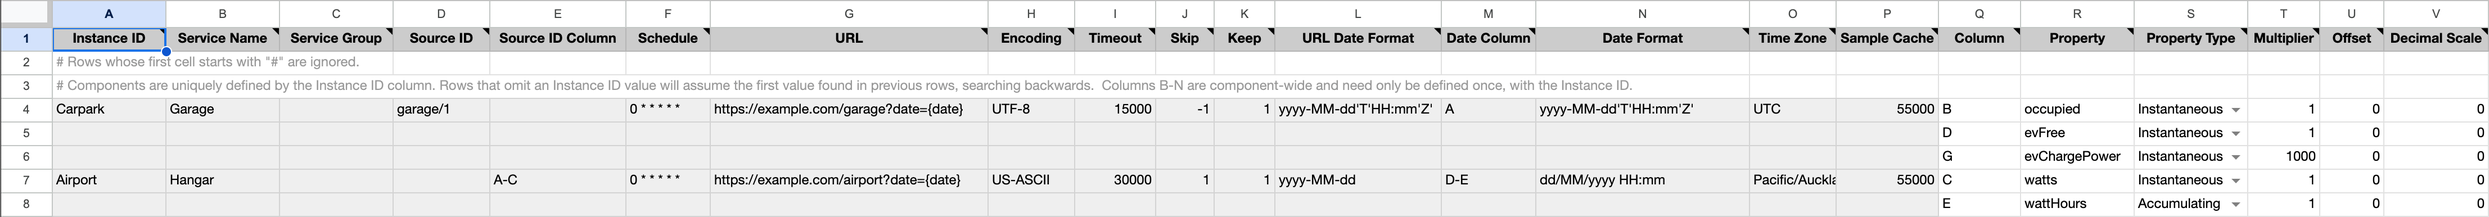
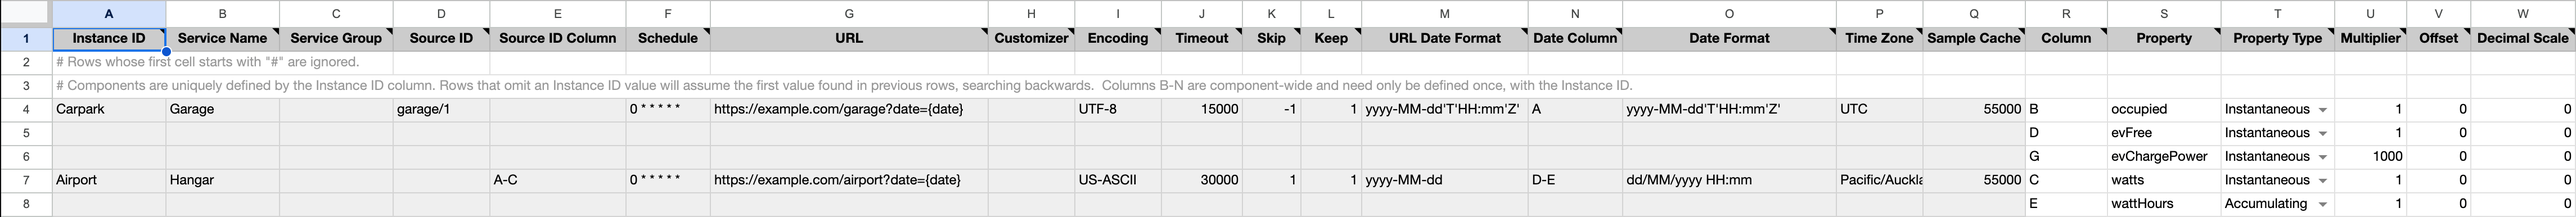
NODE-245: update docs.

diff --git a/net.solarnetwork.node.datum.csv/README.md b/net.solarnetwork.node.datum.csv/README.md
@@ -39,23 +39,32 @@ more complex example of `1,F-H,3` would include columns 1, 6, 7, 8, and 3. The o
 references are preserved when joining the columns together with a ` ` (space) character.
 
 
-# CSV Configurer
+# CSV Configurers
 
-This plugin also provides **CSV Resource CSV Configurer** and **CSV Location Resource CSV
-Configurer** components; these will appear on the main settings page. These component let you upload
-a CSV Configuration file to configure all CVS [Location] Resource components, without having to use
-the settings form.
+This plugin also provides [**CSV Resource CSV Configurer**](#csv-resource-configurer) and [**CSV
+Location Resource CSV Configurer**](#csv-location-resource-configurer) components; these will appear
+on the main settings page. These components let you upload a CSV Configuration file to configure all
+CVS [Location] Resource components, without having to use the settings form.
 
-<img title="CSV Resource Configurer settings" src="docs/solarnode-csv-resource-csv-configurer.png" width="2213">
 
-## CSV Resource CSV Configuration Format
+# CSV Resource
+
+The CSV Resource component collects CSV data as a **node** datum stream. See [CSV Location
+Resource](#csv-location-resource) if you need to collect a **location** datum stream.
+
+## CSV Resource Configurer
+
+<img title="CSV Resource Configurer settings" src="docs/solarnode-csv-resource-csv-configurer.png" width="670">
+
+
+### CSV Resource CSV Configuration Format
 
 The CSV Resource CSV Configurer uses the column structure detailed
 [below](#csv-resource-csv-column-definition), with each row representing an individual datum
 property to read from the CSV data. A header row is required. Comment lines are allowed, just start
 the line with a `#` character (i.e. the first cell value). The entire comment line will be ignored.
 
-Here's an example screen shot of a configuration in a spreadsheet application. It is for two devices:
+Here's an example screen shot of a configuration in a spreadsheet application. It is for two components:
 
  1. Resource `Carpark` with 3 datum properties: `occupied`, `evFree`, and `evChargePower`
  2. Resource `Airport` with 2 datum properties: `watts` and `wattHours`
@@ -63,13 +72,70 @@ Here's an example screen shot of a configuration in a spreadsheet application. I
 Spreadsheet applications generally allows you to export the sheet in the CSV format, which can
 then be loaded into SolarNode via the CSV Resource CSV Configurer.
 
-<img title="CSV Resource CSV Configuration example" src="docs/solarnode-csv-resource-csv-configuration-example-sheet.png" width="1597">
+<img title="CSV Resource CSV Configuration example" src="docs/solarnode-csv-resource-csv-configuration-example-sheet.png" width="2290">
 
+### Instance identifiers
 
-# CSV Resource
+Individual CSV Resource components are defined by the first column (**Instance ID**). You can
+assign any identifier you like (such as `Meter`, `Inverter`, and so on) or configure as a single
+dash character `-` to have SolarNode assign a simple number identifier. Once an Instance ID has been
+assigned on a given row, subsequent rows will use that value if the corresponding cell value is left
+empty.
 
-The CSV Resource component collects CSV data as a **node** datum stream. See [CSV Location
-Resource](#csv-location-resource) if you need to collect a **location** datum stream.
+Here's an example of how 3 custom instance IDs `Meter`, `Pyranometer`, and `Weather` appear in the
+SolarNode UI, with the `Pyranometer` component selected:
+
+<img title="CSV Resource instance names" src="docs/solarnode-csv-resource-named-component-instances.png" width="736">
+
+### CSV Resource CSV column definition
+
+The following table defines all the CSV columns used by CSV Resource CSV Configuration. Columns
+**A - Q** apply to the **entire CSV Resource configuration**, and only the values from the row that
+defines a new [Instance ID](#instance-identifiers) will be used to configure the component. Thus you can omit the values from
+these columns when defining more than one property for a given component.
+
+Columns **S - W** define the mapping of CSV columns to datum properties: each row defines an
+individual datum property.
+
+| Col | Name | Type | Default | Description |
+|:----|:-----|:-----|:--------|:------------|
+| `A` | **Instance ID** | string |  | The unique identifier for a single CSV Resource component. Can specify `-` to automatically assign a simple number value, which will start at `1`. |
+| `B` | **Service Name** | string |  | An optional service name to assign to the component. |
+| `C` | **Service Group** | string |  | An optional service group to assign to the component. |
+| `D` | **Source ID** | string |  | The SolarNetwork datum source ID to use for the datum stream generated by this component configuration. |
+| `E` | **Source ID Column** | string |  | The [CSV column reference](#csv-column-references) to use for the source ID, in preference to the **Source ID** setting. |
+| `F` | **Schedule** | string | `0 * * * * *` | The schedule at which to poll the resource for data. Can be either a [cron][sn-cron-syntax] value or a millisecond frequency. |
+| `G` | **URL** | string |  | The URL of the resource to fetch. A `{date}` parameter is supported, which will be replaced by the formatted request date. |
+| `H` | **HTTP Customizer** | string |  | The **Service Name** of a HTTP Request Customizer service to apply to HTTP requests. This can be used to supply authentication credentials. |
+| `I` | **Character Encoding** | string | `UTF-8` | The text encoding of the CSV resource, as a [RFC 2278](http://www.ietf.org/rfc/rfc2278.txt) value. For example `UTF-8`, `US-ASCII`, `ISO-LATIN-1`. |
+| `J` | **Timeout** | integer | `15000` | A network timeout, in milliseconds. |
+| `K` | **Skip Rows** | integer | `-1` |  The number of CSV rows to skip. This is useful for skipping a "header" row. If negative, then return rows from the end of the data. For example `-1` would return the last row. |
+| `L` | **Keep Rows** | integer | `1` |  The number of CSV rows to turn into datum. Each row becomes a datum. |
+| `M` | **URL Date Format** | string | `yyyy-MM-dd` | The [date format][datepat] to format the `{date}` URL parameter. |
+| `N` | **Date Column** | string |  |  The [CSV column reference](#csv-column-references) to parse the datum timestamp from. |
+| `O` | **Date Format** | string | `dd/MM/yyyy HH:mm:ss` | The [date format][datepat] to use for parsing the **Date Column** value. |
+| `P` | **Time Zone** | string |  | The time zone to use when parsing and formatting dates. If omitted then use the system time zone of the node. |
+| `Q` | **Sample Maximum Age** | integer | `55000` | A maximum time to cache captured CSV data, in milliseconds. |
+| `R` | **Column** | string |  | The [CSV column reference](#csv-column-references) to read as a datum property value. |
+| `S` | **Property** | string |  | The name of the datum property to save the **Column** value as. |
+| `T` | **Property Type** | enum | `Instantaneous` | The datum property type: one of `Instantaneous`, `Accumulating`, `Status`, or `Tag`. |
+| `U` | **Multiplier** | decimal | `1` | For numeric data types, a multiplier to apply to the CSV value to normalize it into a standard unit. |
+| `V` | **Offset** | decimal | `0` | For numeric data types, a value to add to the CSV value to normalize it into a standard unit. |
+| `W` | **Decimal Scale** | integer | `0` | For numeric data types, a maximum number of decimal places to round decimal numbers to, or `-1` to not do any rounding. |
+
+### CSV Resource Example CSV
+
+Here is the CSV as shown in the example configuration screen shot above (comments have been
+removed for brevity):
+
+```csv
+Instance ID,Service Name,Service Group,Source ID,Source ID Column,Schedule,URL,Customizer,Encoding,Timeout,Skip,Keep,URL Date Format,Date Column,Date Format,Time Zone,Sample Cache,Column,Property,Property Type,Multiplier,Offset,Decimal Scale
+Carpark,Garage,,garage/1,,0 * * * * *,https://example.com/garage?date={date},,UTF-8,15000,-1,1,yyyy-MM-dd'T'HH:mm'Z',A,yyyy-MM-dd'T'HH:mm'Z',UTC,55000,B,occupied,Instantaneous,1,0,0
+,,,,,,,,,,,,,,,,,D,evFree,Instantaneous,1,0,0
+,,,,,,,,,,,,,,,,,G,evChargePower,Instantaneous,1000,0,0
+Airport,Hangar,,,A-C,0 * * * * *,https://example.com/airport?date={date},,US-ASCII,30000,1,1,yyyy-MM-dd,D-E,dd/MM/yyyy HH:mm,Pacific/Auckland,55000,C,watts,Instantaneous,1,0,0
+,,,,,,,,,,,,,,,,,E,wattHours,Accumulating,1,0,0
+```
 
 ## CSV Resource Settings
 
@@ -80,10 +146,10 @@ Each CSV Resource configuration contains the following settings:
 | Schedule           | A cron schedule that determines when data is collected.  |
 | Service Name       | A unique name to identify this data source with. |
 | Service Group      | A group name to associate this data source with. |
-| Source ID          | The SolarNetwork unique source ID to assign to datum collected from this device. |
+| Source ID          | The SolarNetwork unique source ID to assign to datum collected from this component. |
 | URL                | The URL of the CSV resource to fetch. The following parameters are allowed: `{date}` the current date, formatted using the **URL Date Format** setting. |
 | HTTP Customizer    | The **Service Name** of a HTTP Request Customizer service to apply to HTTP requests. This can be used to supply authentication credentials. |
-| Character Encoding | The text encoding of the CSV resource, as a [](http://www.ietf.org/rfc/rfc2278.txt) value. For example `UTF-8`, `US-ASCII`, `ISO-LATIN-1`. |
+| Character Encoding | The text encoding of the CSV resource, as a [RFC 2278](http://www.ietf.org/rfc/rfc2278.txt) value. For example `UTF-8`, `US-ASCII`, `ISO-LATIN-1`. |
 | Timeout            | A network timeout, in milliseconds. |
 | Skip Rows          | The number of CSV rows to skip. This is useful for skipping a "header" row. If negative, then return rows from the end of the data. For example `-1` would return the last row. |
 | Keep Rows          | The number of CSV rows to turn into datum. Each row becomes a datum. |
@@ -97,7 +163,7 @@ Each CSV Resource configuration contains the following settings:
 
 ## CSV Resource Property Settings
 
-You must configure settings for each datum property you want to collect from each device. You can
+You must configure settings for each datum property you want to collect from each component. You can
 configure as many property settings as you like, using the <kbd>+</kbd> and <kbd>-</kbd> buttons to
 add/remove property configurations.
 
@@ -121,6 +187,23 @@ The CSV Location Resource component collects CSV data as a **location** datum st
 Resource](#csv-resource) if you need to collect a **node** datum stream.
 
 <img title="CSV Location Resource Datum Source settings" src="docs/solarnode-csv-location-settings.png" width="626">
+
+## CSV Location Resource Configurer
+
+The CSV Location Resource Configurer is similar to the [CSV Resource Configurer](#csv-resource-configurer):
+
+<img title="CSV Location Resource Configurer settings" src="docs/solarnode-csv-location-resource-csv-configurer.png" width="670">
+
+### CSV Location Resource CSV column definition
+
+The CSV Location Resource CSV column definition is similar to the
+[CSV Resource CSV column definition](#csv-resource-csv-column-definition). Only the following
+columns are different:
+
+| Col | Name | Type | Default | Description |
+|:----|:-----|:-----|:--------|:------------|
+| `D` | **Location** | string |  | The SolarNetwork location to associate the collected data with. See [Locations](#locations) for more information. |
+| `E` | **Location Type** | string |  | A supported SolarNetwork location type, for example `price` or `weather`. |
 
 ## CSV Location Resource Settings
 
